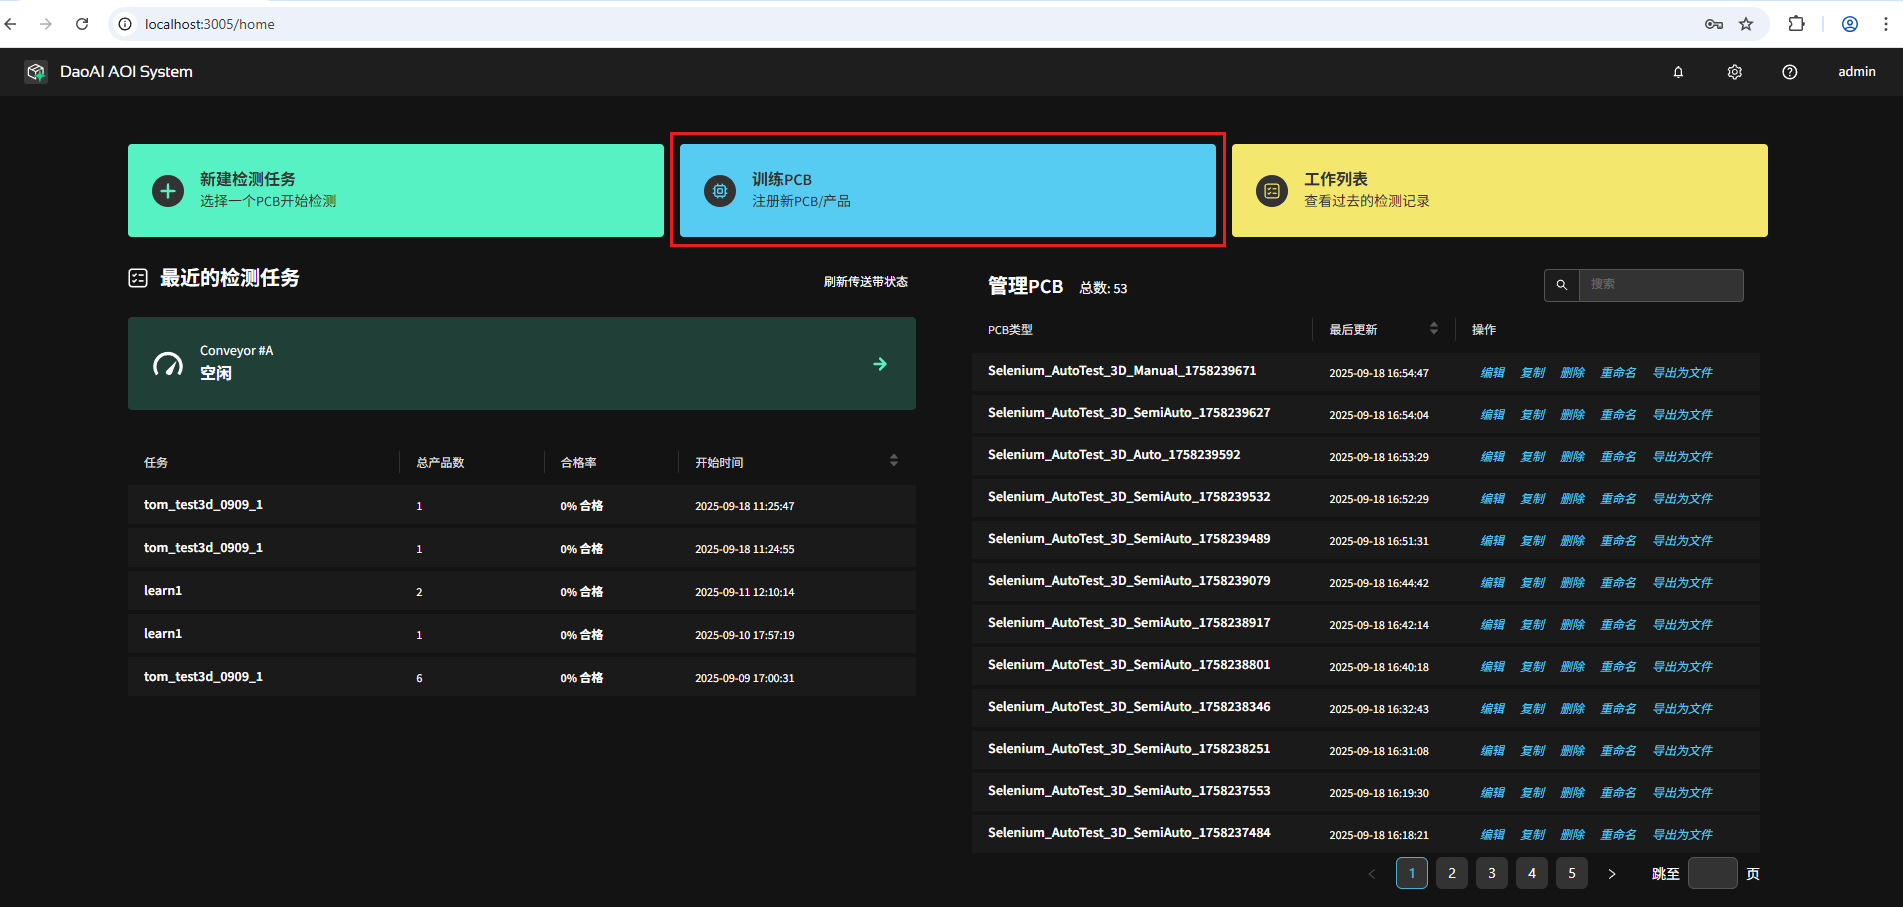
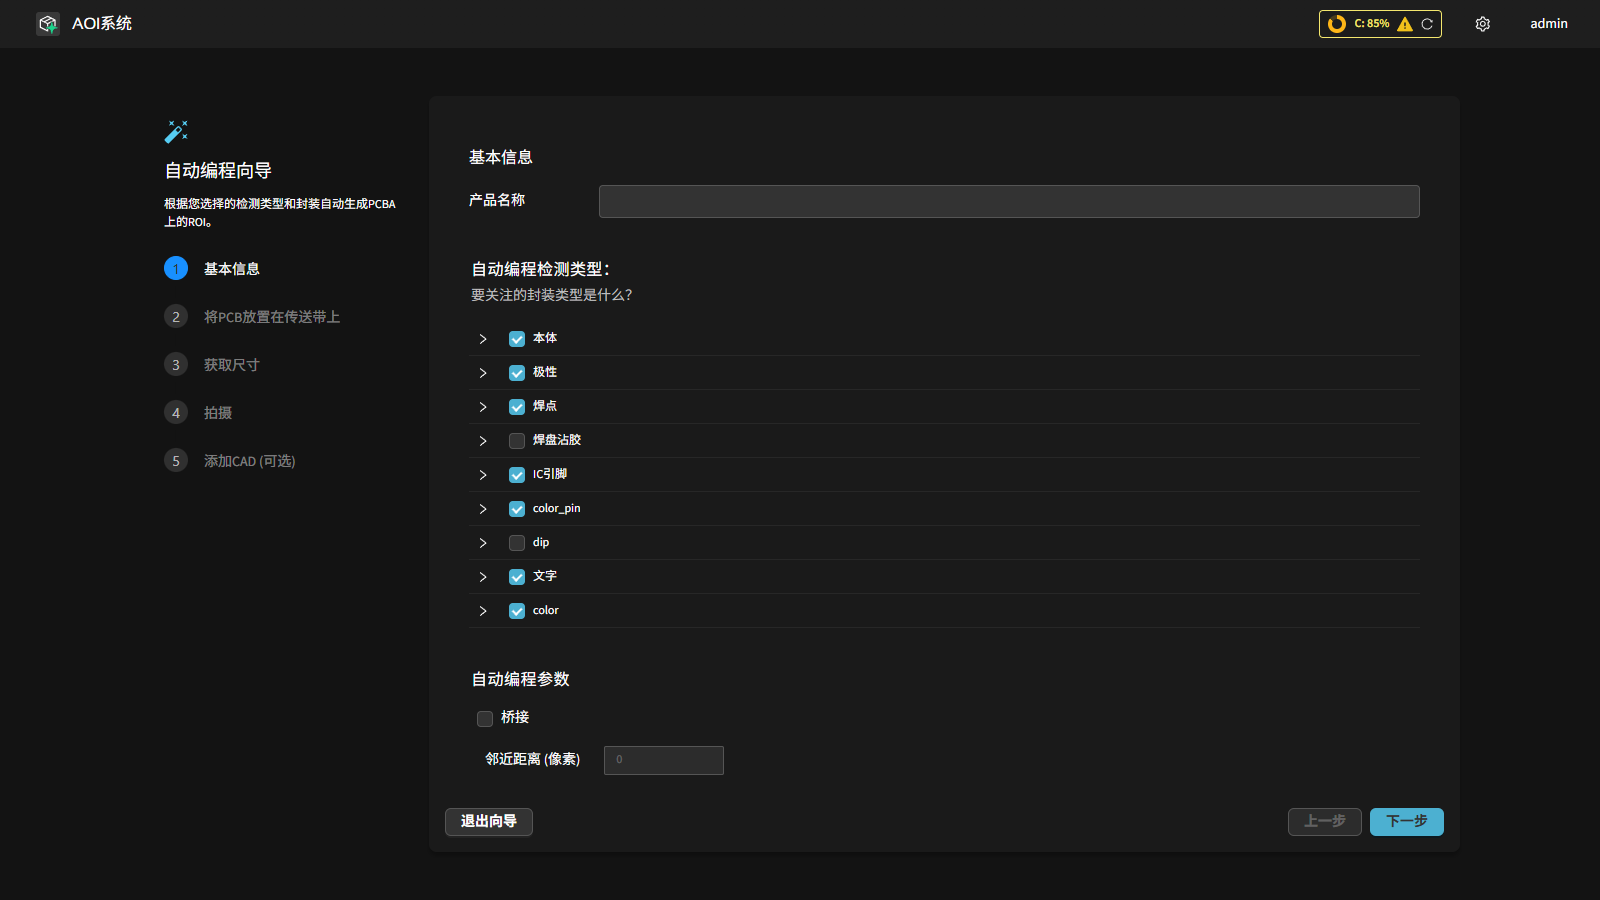
docs(phase1): create_product - 训练PCBA + consolidated 基本信息 step, Chinese screenshot

diff --git a/docs/source/complete_user_guide/features/create_product.rst b/docs/source/complete_user_guide/features/create_product.rst
@@ -6,17 +6,13 @@
 基础创建流程
 -----------------
 
-1. 在主页点击 **训练 PCB** 进入自动编程向导。
+1. 在主页点击 **训练PCBA** 进入 **自动编程向导**。
+
+2. 在 **基本信息** 步骤中输入 **产品名称**（需唯一，重复会提示失败），并在 **自动编程检测类型** 中按需勾选关注的检测项；如有需要，可在 **自动编程参数** 中开启桥接检测。完成后点击 **下一步**。
 
     .. image:: images/create_product_1.png
         :scale: 50%
-        :alt: 创建产品第一步
-
-2. 输入产品名称；按需启用/关闭检测模块。名称需唯一，重复会提示失败。
-
-    .. image:: images/create_product_2.png
-        :scale: 50%
-        :alt: 创建产品第二步
+        :alt: 创建产品-基本信息
 
 自动检测支持类型总览:
 